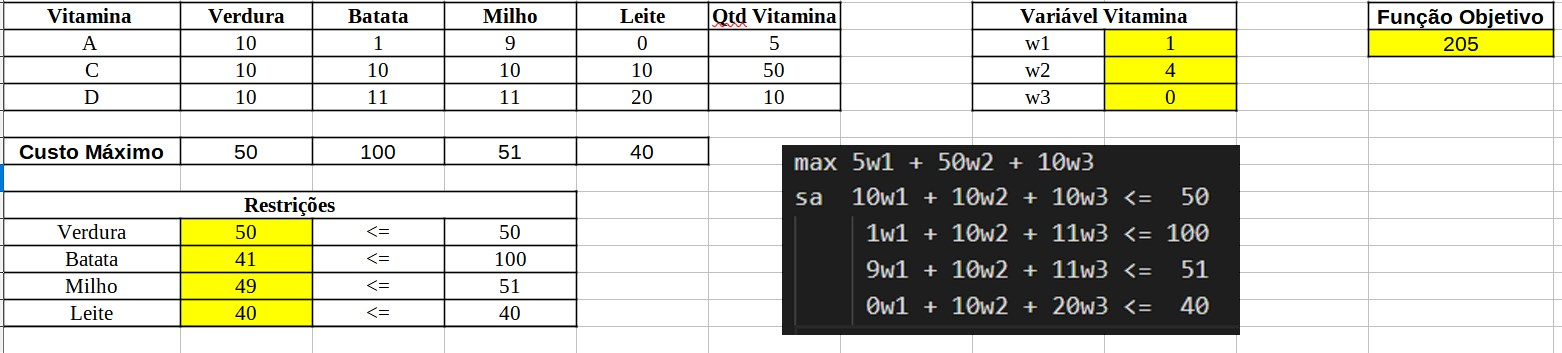
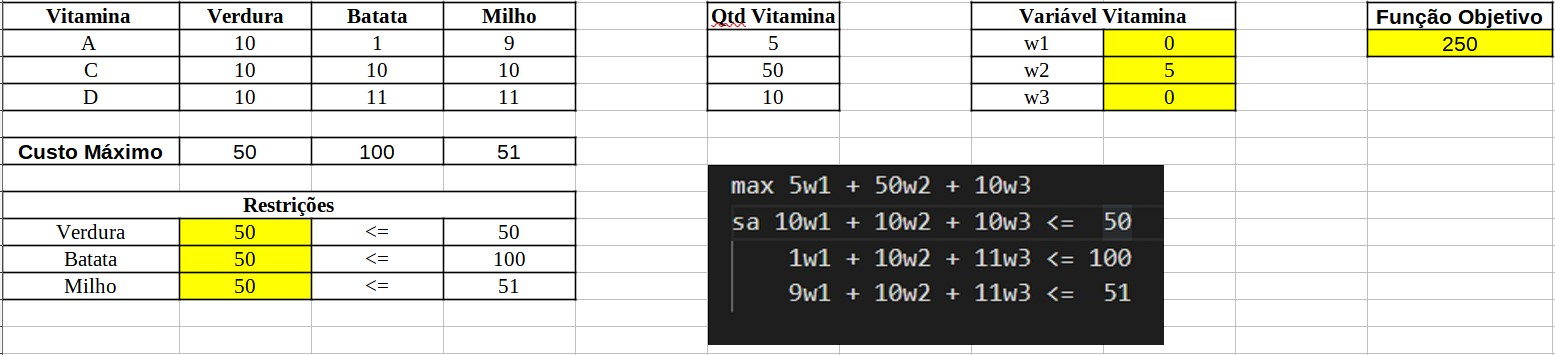
chore: 19.b

diff --git a/atividade-final/9.19/9.19-B/README.md b/atividade-final/9.19/9.19-B/README.md
@@ -21,22 +21,23 @@
     var x1 >= 0; # verdura
     var x2 >= 0; # batata
     var x3 >= 0; # milho
+    var x4 >= 0; # leite
 
     # reduzir o custo
     minimize Z : 
-        50*x1 + 100*x2 + 51*x3;
+        50*x1 + 100*x2 + 51*x3 + 40*x4;
 
     # mínimo vitamina A
     subto c1: 
-        10*x1 + 1*x2 + 9*x3 >= 5;
+        10*x1 + 1*x2 + 9*x3 + 0*x4 >= 5;
         
     # mínimo vitamina B
     subto c2:
-        10*x1 + 10*x2 + 10*x3 >= 50;
+        10*x1 + 10*x2 + 10*x3 + 10*x4 >= 50;
 
     # mínimo vitamina C
     subto c3:
-        10*x1 + 11*x2 + 11*x3 >= 10;
+        10*x1 + 11*x2 + 11*x3 + 20*x4 >= 10;
 
 ![image](resources/pp.jpg)
 
@@ -64,11 +65,8 @@
     subto c3:
         9*w1 + 10*w2 + 11*w3 <= 51;
 
-max 5w1 + 50w2 + 10w3
-sa 10w1 + 10w2 + 10w3 <=  50
-    1w1 + 10w2 + 11w3 <= 100
-    9w1 + 10w2 + 11w3 <=  51
-
-
+    # valor maximo com milho
+    subto c4:
+        0*w1 + 10*w2 + 20*w3 <= 40;
 
 ![image](resources/pd.jpg)

diff --git a/atividade-final/9.19/README.md b/atividade-final/9.19/README.md
@@ -5,14 +5,3 @@
 - [9.19-A](9.19-A/README.md)
 - [9.19-B](9.19-B/README.md)
 - [9.19-C](9.19-C/README.md)
-
-min 50x1 + 100x2 + 51x3 + 40x4
-sa  10x1 +  1x2 +  9x3 +  0x4 >= 5
-    10x1 + 10x2 + 10x3 + 10x4 >= 50
-    10x1 + 11x2 + 11x3 + 20x4 >= 10
-
-max 5w1 + 50w2 + 10w3
-sa  10w1 + 10w2 + 10w3 <=  50
-     1w1 + 10w2 + 11w3 <= 100
-     9w1 + 10w2 + 11w3 <=  51
-     0w1 + 10w2 + 20w3 <=  40

diff --git a/atividade-final/README.md b/atividade-final/README.md
@@ -2,7 +2,7 @@
 
 Análise de Sensibilidade
 
-## Exercícios do Capítulo 9 do Livro `[Linear Programming - Katta Murty](resources/Cap_9_Sensitive_Analysis_Katta_Murty.pdf)`
+## Exercícios do Capítulo 9 do Livro [Linear Programming - Katta Murty](resources/Cap_9_Sensitive_Analysis_Katta_Murty.pdf)
 
 - [9.16](9.16/README.md)
 - [9.17](9.17/README.md)
